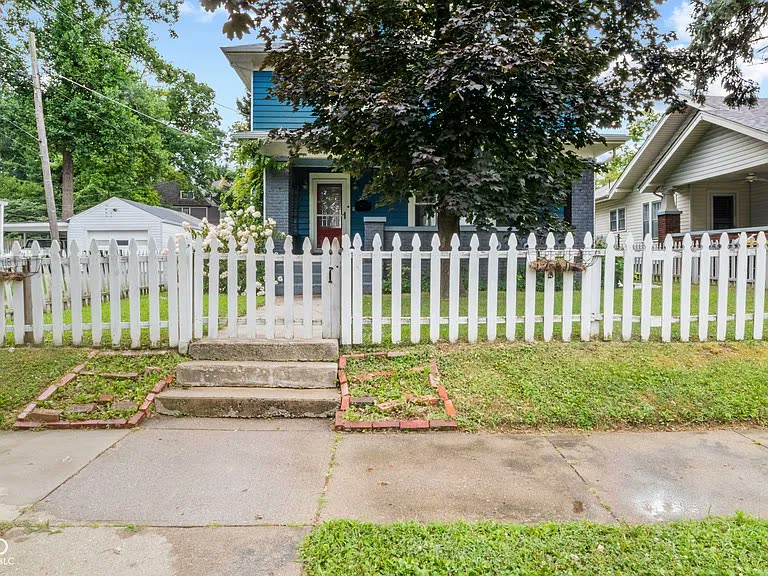
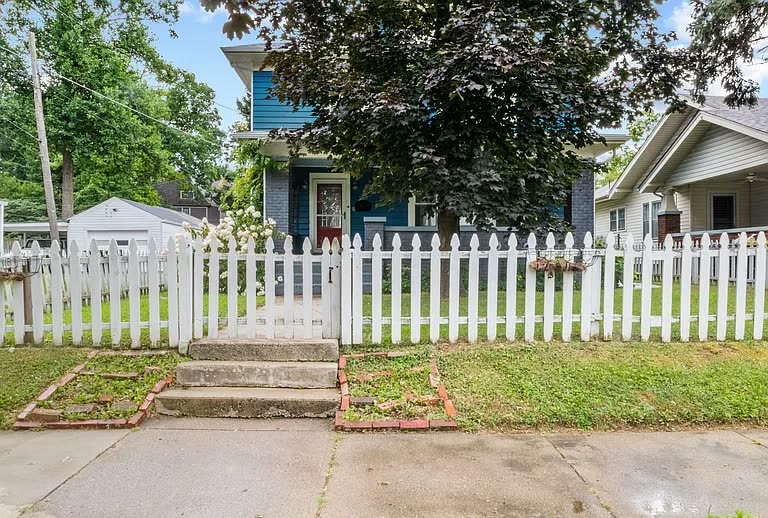
Add 925 W 7th St interior photos to its home page

diff --git a/preview/homes/925-w-7th/index.html b/preview/homes/925-w-7th/index.html
@@ -37,7 +37,7 @@
   <div class="beds tbc"><span class="dot"></span>Call for current availability</div>
 </div></section>
 
-<section class="gallery" aria-label="Photos"><div class="grid"><div class="tile big"><img src="../../assets/homes/925-w-7th/front.jpg" alt="Front of the house, Phoenix [7th Street]"></div><div class="tile"><img src="../../assets/homes/925-w-7th/exterior-2.jpg" alt="Side of the house, Phoenix [7th Street]" loading="lazy"></div><div class="tile empty"><svg viewBox="0 0 24 24" fill="none" stroke="currentColor" stroke-width="1.5" aria-hidden="true"><rect x="3" y="4" width="18" height="16" rx="2"/><circle cx="9" cy="10" r="2"/><path d="m21 16-5-5-7 7"/></svg><span>Kitchen · photo coming soon</span></div><div class="tile empty"><svg viewBox="0 0 24 24" fill="none" stroke="currentColor" stroke-width="1.5" aria-hidden="true"><rect x="3" y="4" width="18" height="16" rx="2"/><circle cx="9" cy="10" r="2"/><path d="m21 16-5-5-7 7"/></svg><span>Bedroom · photo coming soon</span></div><div class="tile empty"><svg viewBox="0 0 24 24" fill="none" stroke="currentColor" stroke-width="1.5" aria-hidden="true"><rect x="3" y="4" width="18" height="16" rx="2"/><circle cx="9" cy="10" r="2"/><path d="m21 16-5-5-7 7"/></svg><span>Porch or backyard · photo coming soon</span></div></div></section>
+<section class="gallery" aria-label="Photos"><div class="grid"><div class="tile big"><img src="../../assets/homes/925-w-7th/front.jpg" alt="Front of the house, Phoenix [7th Street]"></div><div class="tile"><img src="../../assets/homes/925-w-7th/living.jpg" alt="Living room, Phoenix [7th Street]" loading="lazy"></div><div class="tile"><img src="../../assets/homes/925-w-7th/kitchen.jpg" alt="Kitchen, Phoenix [7th Street]" loading="lazy"></div><div class="tile"><img src="../../assets/homes/925-w-7th/bath.jpg" alt="Bathroom, Phoenix [7th Street]" loading="lazy"></div><div class="tile"><img src="../../assets/homes/925-w-7th/backyard.jpg" alt="Back of the house and patio, Phoenix [7th Street]" loading="lazy"></div></div></section>
 
 <section id="house" class="wrap" style="padding-top:clamp(48px,6vw,80px)"><div class="glance">
   <div><div class="k">Serves</div><div class="v">Men in recovery</div><div class="sub">Adults 18 and over</div></div><div><div class="k">Home type</div><div class="v">Structured sober living</div><div class="sub">Monitored residence</div></div><div><div class="k">Capacity</div><div class="v"><span class="tbc">[8]</span> residents</div><div class="sub">Shared and single rooms</div></div><div><div class="k">Rent</div><div class="v">$<span class="tbc">[XXX]</span> per week</div><div class="sub">Paid directly</div></div>

diff --git a/tools/site-data.js b/tools/site-data.js
@@ -119,7 +119,7 @@ const homes = [
     photos: [['front.jpg','Front of the house'],['hall.jpg','Front room and staircase'],['kitchen.jpg','Kitchen'],['bath.jpg','Bathroom'],['laundry.jpg','Laundry and wash room']],
     video: 'walkthrough.mp4' },
   { slug: '925-w-7th',      name: 'Phoenix [7th Street]', city: 'Anderson',
-    photos: [['front.jpg','Front of the house'],['exterior-2.jpg','Side of the house']], video: null },
+    photos: [['front.jpg','Front of the house'],['living.jpg','Living room'],['kitchen.jpg','Kitchen'],['bath.jpg','Bathroom'],['backyard.jpg','Back of the house and patio']], video: null },
   { slug: '1302-e-8th',     name: 'Phoenix [8th Street]', city: 'Anderson',
     photos: [['front.jpg','Front of the house'],['living.jpg','Living room'],['kitchen.jpg','Kitchen'],['kitchen-2.jpg','Kitchen, sink and pantry'],['dining.jpg','Dining room']],
     video: null },
